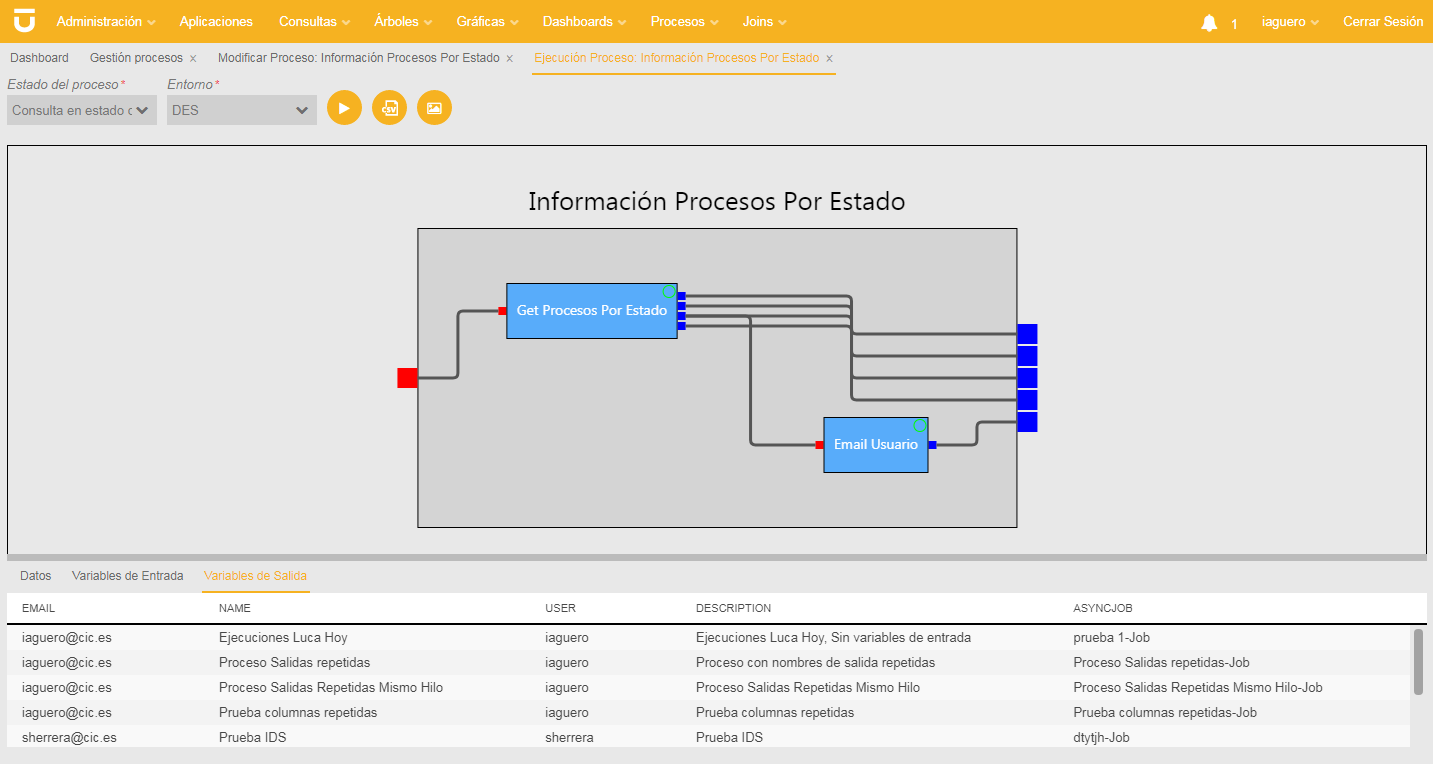
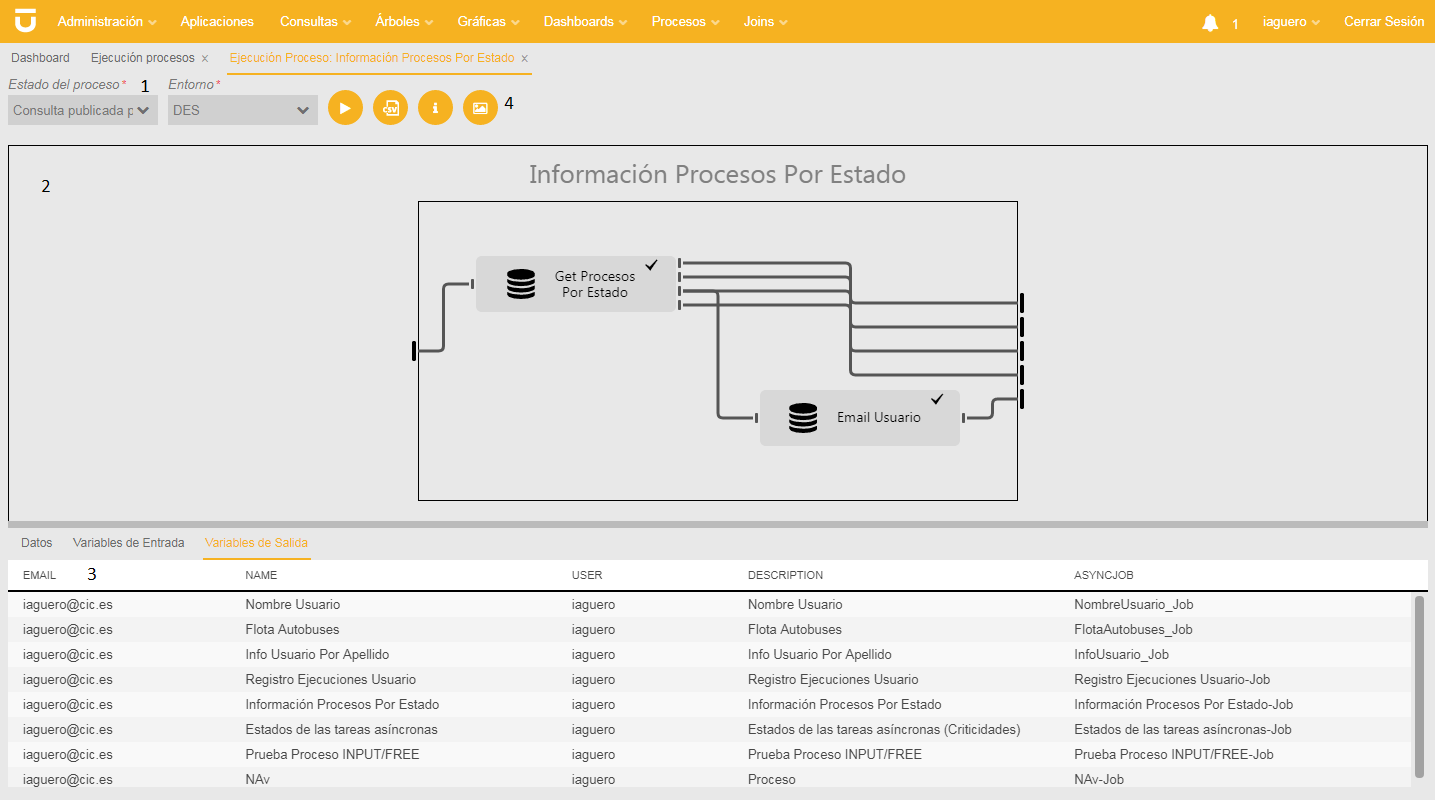
insercion de gestion y ejeciucion de un proceso

diff --git a/memoria/introductionChapter.tex b/memoria/introductionChapter.tex
@@ -56,20 +56,20 @@ No obstante, para que dichas consultas pueden ser ejecutadas, es necesario un us
 
 \begin{figure}[!tb]
 	\centering
-	\includegraphics[width=\linewidth]{capturasLuca/creacionConsulta.png}
+	\includegraphics[width=\linewidth]{capturasLuca/gestionConsulta.png}
 	\caption{Creación de una Consulta}
-	\label{fig:creacionConsulta}
+	\label{fig:gestionConsulta}
 \end{figure}
 
-Para poder realizar esta tarea, el creador de consultas accedería a la interfaz dedicada a esta tarea (ver Figura~\ref{fig:creacionConsulta}). En esta interfaz, definiría primero las variables de entrada y salida de la consulta (Figura~\ref{fig:creacionConsulta}, etiqueta 1). A continuación, especificaría cómo llevar a cabo dicha consulta a bajo nivel. Para ello puede utilizar una serie de facilidades y primitivas proporcionadas por LUCA. Para la consulta ejemplo, utilizando estas facilidades, se especifica que se desea obtener el nombre, la descripción, el nombre de la tarea asíncrona y el usuario, y se establece como variable de entrada el estado del proceso.
+Para poder realizar esta tarea, el creador de consultas accedería a la interfaz dedicada a esta tarea (ver Figura~\ref{fig:gestionConsulta}). En esta interfaz, definiría primero las variables de entrada y salida de la consulta (Figura~\ref{fig:gestionConsulta}, etiqueta 1). A continuación, especificaría cómo llevar a cabo dicha consulta a bajo nivel. Para ello puede utilizar una serie de facilidades y primitivas proporcionadas por LUCA. Para la consulta ejemplo, utilizando estas facilidades, se especifica que se desea obtener el nombre, la descripción, el nombre de la tarea asíncrona y el usuario, y se establece como variable de entrada el estado del proceso.
 
 Tras guardar la consulta se puede ejecutar directamente desde la ventana de creación, sin embargo, si la consulta ya ha sido ejecutada previamente y el usuario la ha publicado (tras ejecutar una consulta desde la ventana de creación, si se ha ejecutado correctamente se le permite al usuario cambiar su estado de edición a publicada, esto significa que la consulta está preparada para ser ejecutada), el usuario puede ir a la ventada de ejecución de consultas, y desde ahí ejecutarla.
 
 La principal ventaja que aporta LUCA es que el proceso de ejecución de consultas es opaco para el usuario que la ejecuta. El usuario sólo tiene que proporcionar los parámetros necesarios de entrada y seleccionar un formato de salida. Por tanto, el proceso de ejecución de consultas es exactamente el mismo con independencia de la fuente a la cual se accede.
 
-Por ejemplo, en el caso de la consulta \emph{Get Procesos Por Estado} sería necesario proporcionar el estado de los procesos de los que queremos obtener información. Una vez introducido dicho estado, se seleccionaría el botón de ejecución de la consulta (Figura~\ref{fig:ejecucionConsulta}, etiqueta 2). Finalmente, se muestra el resultado de la consulta, el cuál puede ser visualizado de diferentes formas en función del recurso al que se llama. En nuestro caso, se muestra como una tabla ya que es una consulta a base de datos (Figura~\ref{fig:ejecucionConsulta}, etiqueta 3).
+Por ejemplo, en el caso de la consulta \emph{Get Procesos Por Estado} sería necesario proporcionar el estado de los procesos de los que queremos obtener información. Una vez introducido dicho estado, se seleccionaría el botón de ejecución de la consulta (Figura~\ref{fig:ejecucionConsultas}, etiqueta 2). Finalmente, se muestra el resultado de la consulta, el cuál puede ser visualizado de diferentes formas en función del recurso al que se llama. En nuestro caso, se muestra como una tabla ya que es una consulta a base de datos (Figura~\ref{fig:ejecucionConsultas}, etiqueta 3).
 
-Lo importante de este proceso es que, una vez definida la consulta, ésta se puede ejecutar fácilmente sin conocer los detalles internos de la misma, incluso hasta el tipo de sistema al que se accede.
+Lo importante de este proceso es que, una vez definida la consulta, esta se puede ejecutar fácilmente sin conocer los detalles internos de la misma, incluso hasta el tipo de sistema al que se accede.
 
 	\begin{figure}[!tb]
 		\centering
@@ -112,31 +112,6 @@ Consecuentemente, el proyecto queda reducido a las fases de diseño microarquite
 Estas fases de diseño y prueba se realizaron mediante un esquema de desarrollo iterativo e incremental, similar a de las metodologías ágiles, pero sin llegar a adoptar una elementos propios de un proyecto ágil, tales como un \emph{Product Backlog} o la limitación de la duración de las iteraciones a un tiempo concreto.
 
 El desarrollo del producto se dividió en varias iteraciones. En cada iteración, se añadían nuevas funcionalidades al producto, que iba creciendo en complejidad. Al final de cada iteración, se mostraba el producto a los responsables del proyecto LUCA, los cuales daban su aprobación para continuar con el desarrollo y sugerían los cambios y modificaciones que consideraban oportunos. 
-
-%%==============================================================================%%
-%% NOTE(Pablo): Lo de abajo se quita por simplicidad                            %%
-%%==============================================================================%%
-%%
-%% Como ya se ha mencionado, en estos documentos se pueden encontrar los
-%% requisitos técnicos atribuidos al proyecto, pero, de forma resumida, se
-%% centran en tres pilares o requisitos principales:
-%%
-%% \begin{itemize}
-%%  	\item Concatenación de las consultas entre si pertenecientes a un
-%%            mismo proceso.
-%% 	\item Visualización del progreso de ejecución del proceso.
-%% 	\item Aplicar criterios de navegación a partir de los resultados de salidas.
-%% \end{itemize}
-%%
-%%
-%%==============================================================================%%
-%%
-%% Comentar que la arquitectura ya estaba definida, por lo que el proyecto se reduce
-%% a las fases de diseño detallado, implementación y pruebas.
-%%
-%% El proyecto genera como resultado dos módulos grande y bien diferenciados:
-%%    Process Editor Component y (se va a cambiar).
-%%==============================================================================%%
 
 \section{Sumario}
 

diff --git a/memoria/desarrollo.tex b/memoria/desarrollo.tex
@@ -246,6 +246,7 @@ La capa de negocio se subdividió en dos subcapas. La primera es la capa de cont
 %% Qué se hizo en otras iteraciones, a modo de la lista de la compra.
 En las consecutivas iteraciones se fue puliendo y añadiendo las funcionalidades necesarias para poder persistir el modelo de datos.
 
+
 %% Hablar algo de pruebas, y si las hay, mostrar código.
 La capa de servicio es la capa más rica en pruebas, ya que se automatizaron todos los métodos que se realizan para persistir el modelo. Para realizarlas se utilizó conjuntamente la capa de repositorio, de forma que fue necesario introducir datos en la base de datos previos a cada test. Esto se realizó mediante un fichero \emph{SQL} (Figura~\ref{fig:sqlFile}), de forma que al inicio de cada test se cargan los datos y al final de cada test la base de datos se vacía, de esta forma dicha base de datos queda preparada para la consecutiva ejecución de pruebas sin depender de las anteriores.
 
@@ -279,4 +280,28 @@ La Figura~\ref{fig:testExample} muestra el test de obtención de todos los \emph
 	\caption{Ejemplo Test}
 	\label{fig:testExample}
 \end{figure}
+
+%% explicar el proceso de composicion y ejecucion de procesos
+La figura~\ref{fig:gestionProceso} explica la creación de un proceso. La figura se compone de tres secciones bien diferenciadas, por una parte tenemos una tabla con las diferentes consultas que pueden ser utilizadas en el proceso, esta tabla además, puede ser filtrada en base al grupo al que queremos que pertenezcan las consultas (Figura~\ref{fig:gestionProceso}, etiqueta 1). La sección superior de la figura (Figura~\ref{fig:gestionProceso}, etiqueta 2) representa todas las características necesarias para crear un proceso. La última sección alberga el diagrama cn el que el usuario puede interactuar para construir el proceso utilizando las diferentes consultas que son arrastradas desde la tabla de consultas (Figura~\ref{fig:gestionProceso}, etiqueta 3).
+
+
+\begin{figure}[!tb]
+	\centering
+	\includegraphics[width=\linewidth]{capturasLuca/gestionProceso.png}
+	\caption{Creación de un proceso}
+	\label{fig:gestionProceso}
+\end{figure}
+
+Para terminar, la figura~\ref{fig:ejecucionProceso} muestra la ejecución de un proceso. Esta figura se puede dividir en tres secciones. La primera consta de los campos necesarios para poder ejecutar un proceso (Figura~\ref{fig:ejecucionProceso}, etiqueta 1). En la segunda sección se muestra el diagrama del proceso (esta vez no es editable), en él, durante la ejecución, se podrá ir visualizando el flujo de ejecución del proceso, viendo que consultas o enlaces se han ejecutado correctamente o no (Figura~\ref{fig:ejecucionProceso}, etiqueta 2). La última sección muestra el resultado de ejecutar el proceso, se visualiza una tabla con el conjunto de resultados (Figura~\ref{fig:ejecucionProceso}, etiqueta 3). Además de estas secciones, el usuario si lo desea puede ocultar el diagrama para solo visualizar la tabla de resultados(Figura~\ref{fig:ejecucionProceso}, etiqueta 4).
+
+
+\begin{figure}[!tb]
+	\centering
+	\includegraphics[width=\linewidth]{capturasLuca/ejecucionProceso.png}
+	\caption{Ejecución de un proceso}
+	\label{fig:ejecucionProceso}
+\end{figure}
+
+
+
 

diff --git a/memoria/indexChapter.tex b/memoria/indexChapter.tex
@@ -1,7 +1,7 @@
 \chapter*{Agradecimientos}
 	Me gustaría dar agradecimientos a mi familia y facultad, ya que sin ellos esto no habría sido posible nada de estos.
 	
-	 Es importante agradecer también a CIC Consulting Informático por permitirme la oportunidad de realizar el desarrollo del proyecto en su empresa, sin olvidarme de mis compañeros de LUCA, que han sido un gran apoyo durante el mismo..
+	 Es importante agradecer también a CIC Consulting Informático por permitirme la oportunidad de realizar el desarrollo del proyecto en su empresa, sin olvidarme de mis compañeros de LUCA, que han sido un gran apoyo durante el mismo.
 	
 	 Para finalizar, me gustaría gradecer a mi mentor Pablo, por guiarme durante el desarrollo del proyecto con eficacia y ayudarme a afrontar este trabajo de fin de grado.
 
